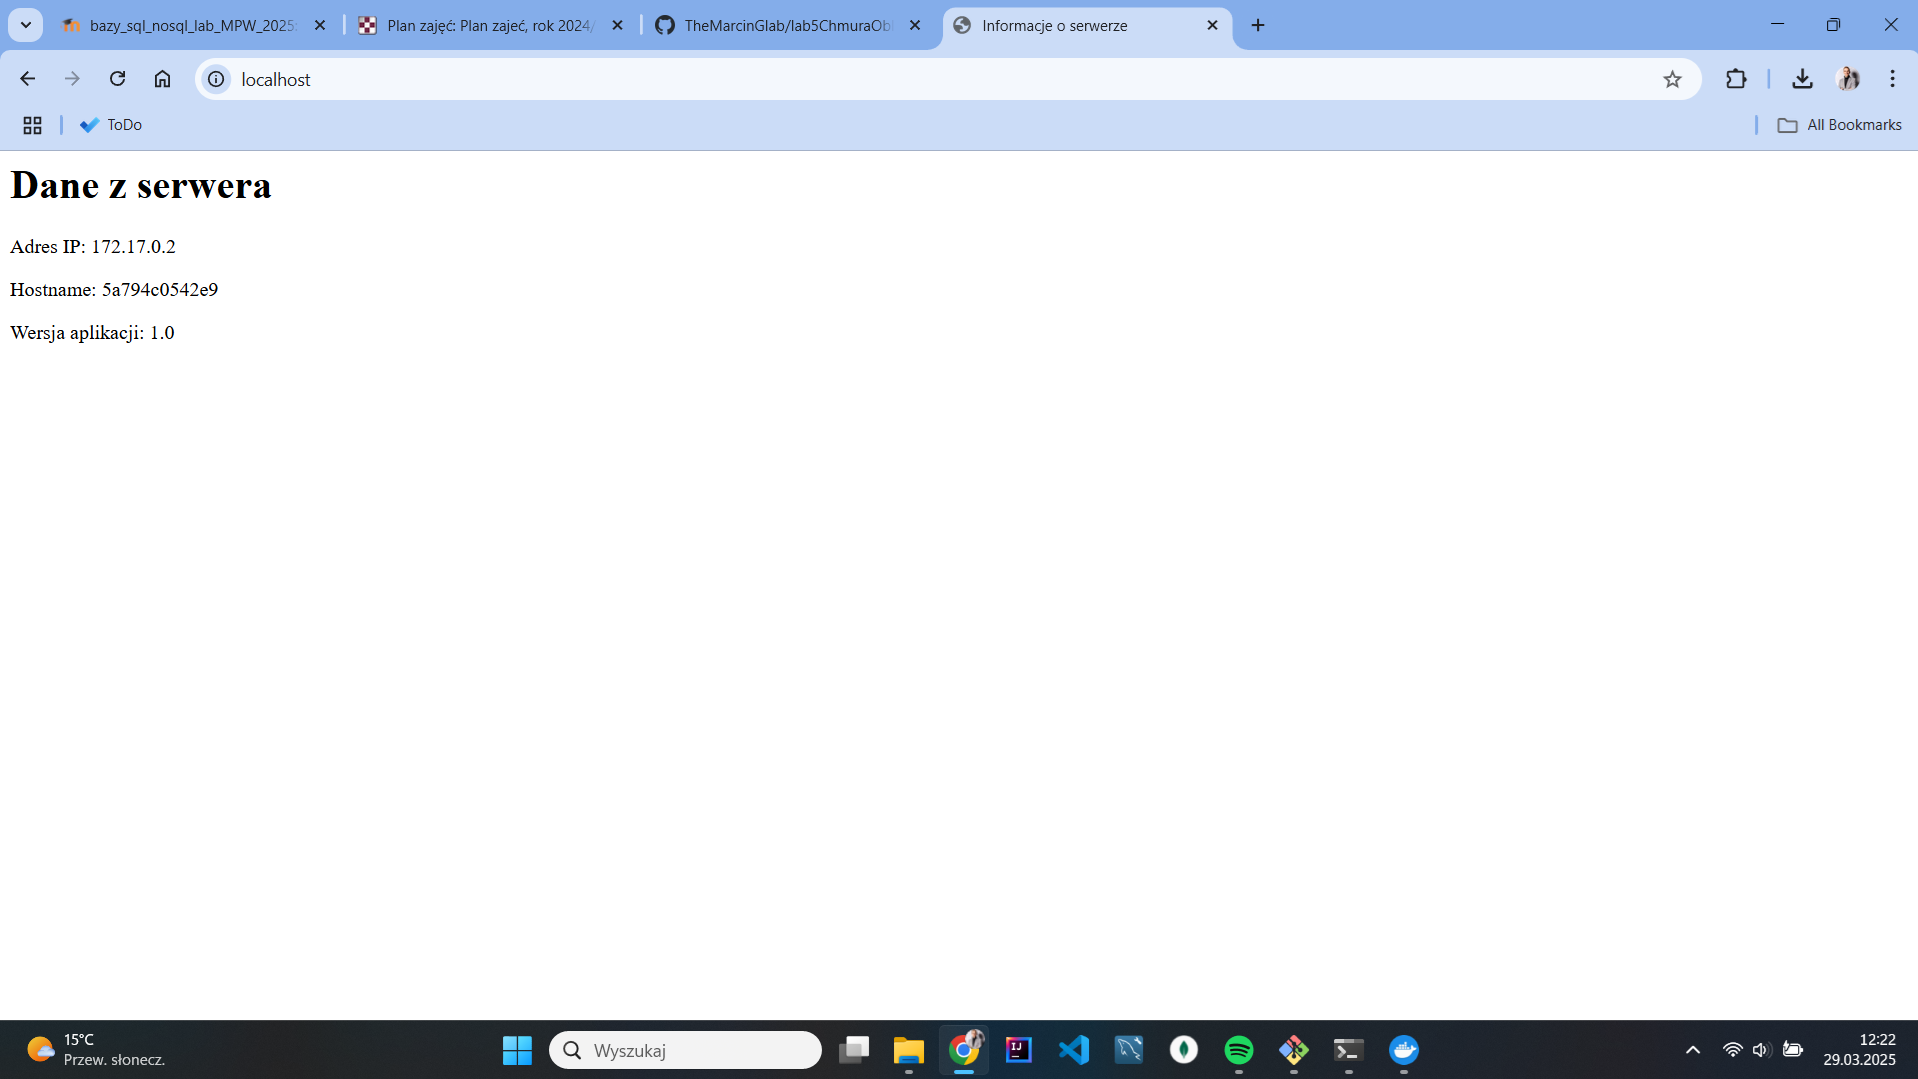
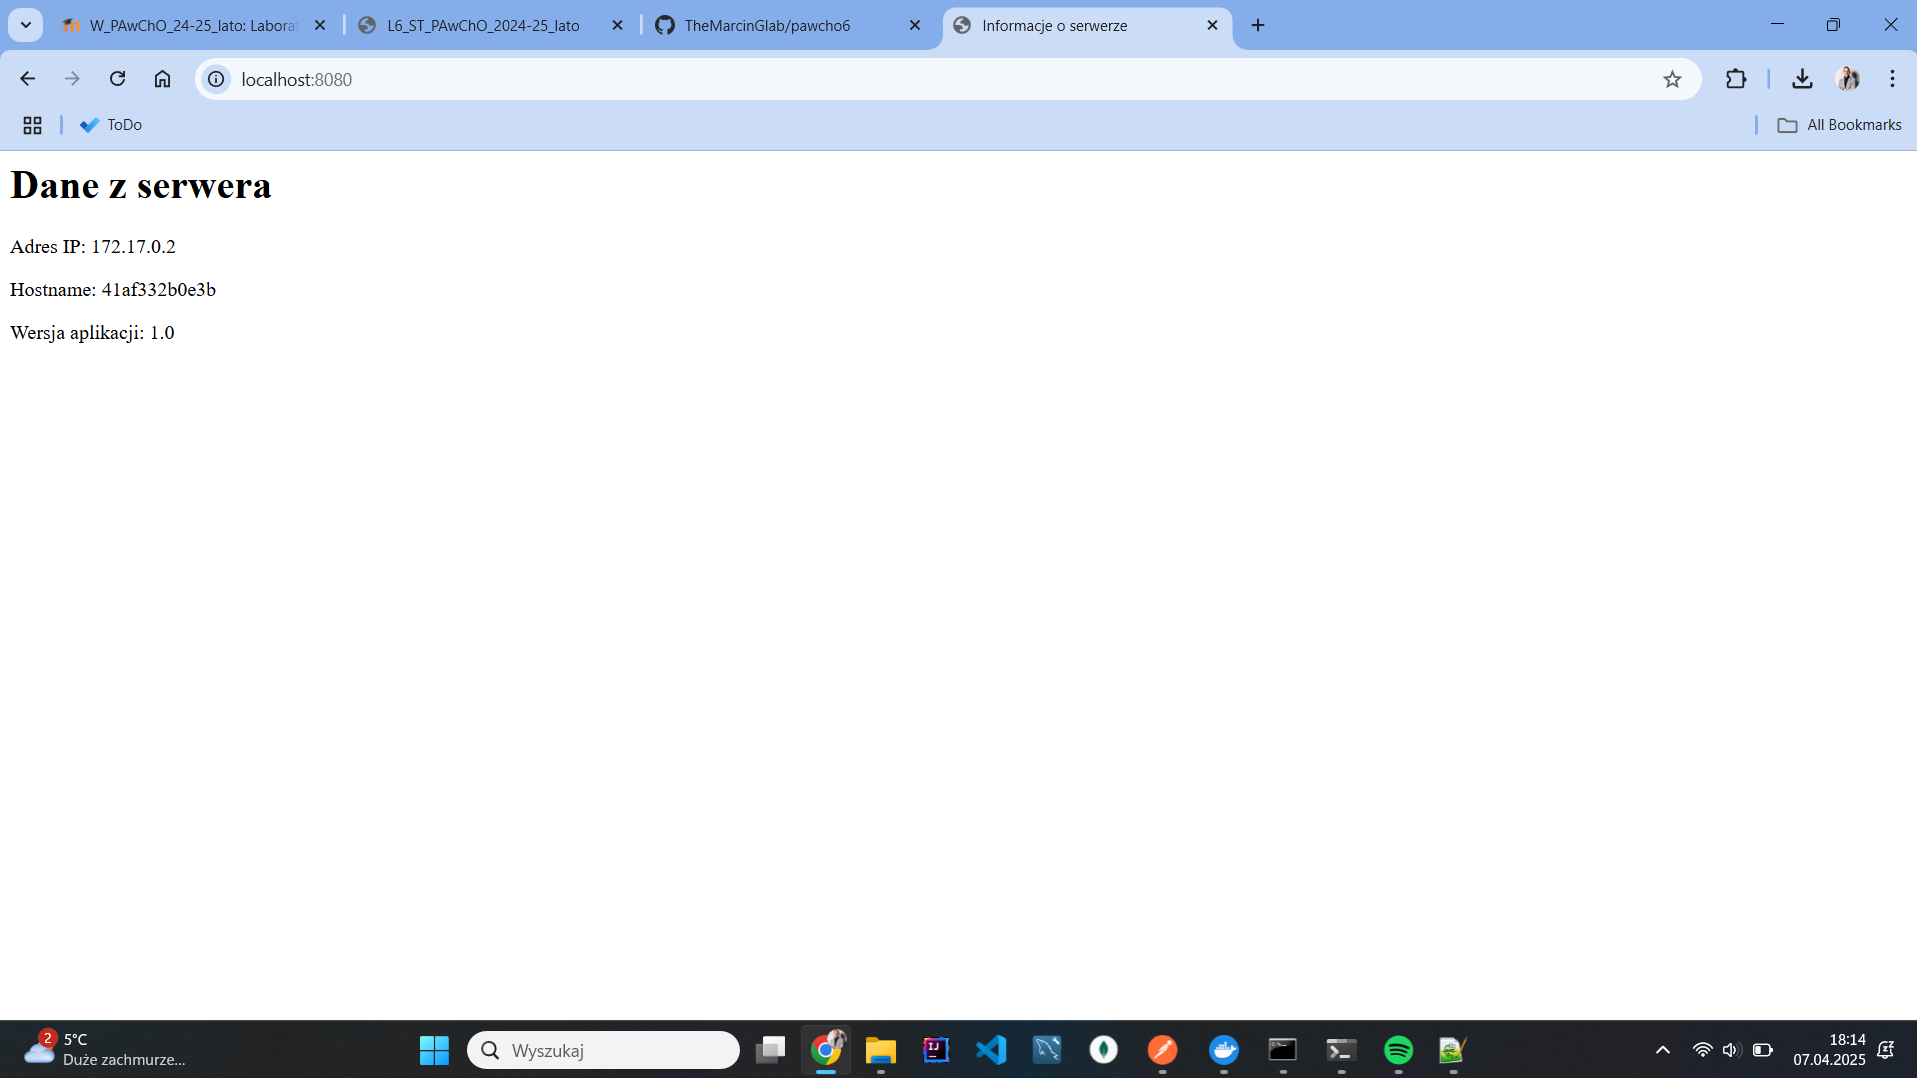
Poprawa pliku README

diff --git a/README.md b/README.md
@@ -1,7 +1,16 @@
-DOCKER_BUILDKIT=1 docker build --build-arg VERSION=1.0 -t lab5:zaliczenie .
+Polecenie do zbudowania obrazu:
 
 
-docker run -d -p 80:80 lab5:zaliczenie
+DOCKER_BUILDKIT=1 docker build \
+  --ssh default=$HOME/.ssh/gh_lab_thebest \
+  --build-arg VERSION=1.0 \
+  -t ghcr.io/themarcinglab/pawcho6:lab6 .
+
+Polecenie do uruchomienia obrazu:
+
+docker run -d -p 8080:80 ghcr.io/themarcinglab/pawcho6
 
 
 ![Zrzut ekranu aplikacji](img.png)
+
+![Zrzut ekranu aplikacji](wsl_screen.png)
